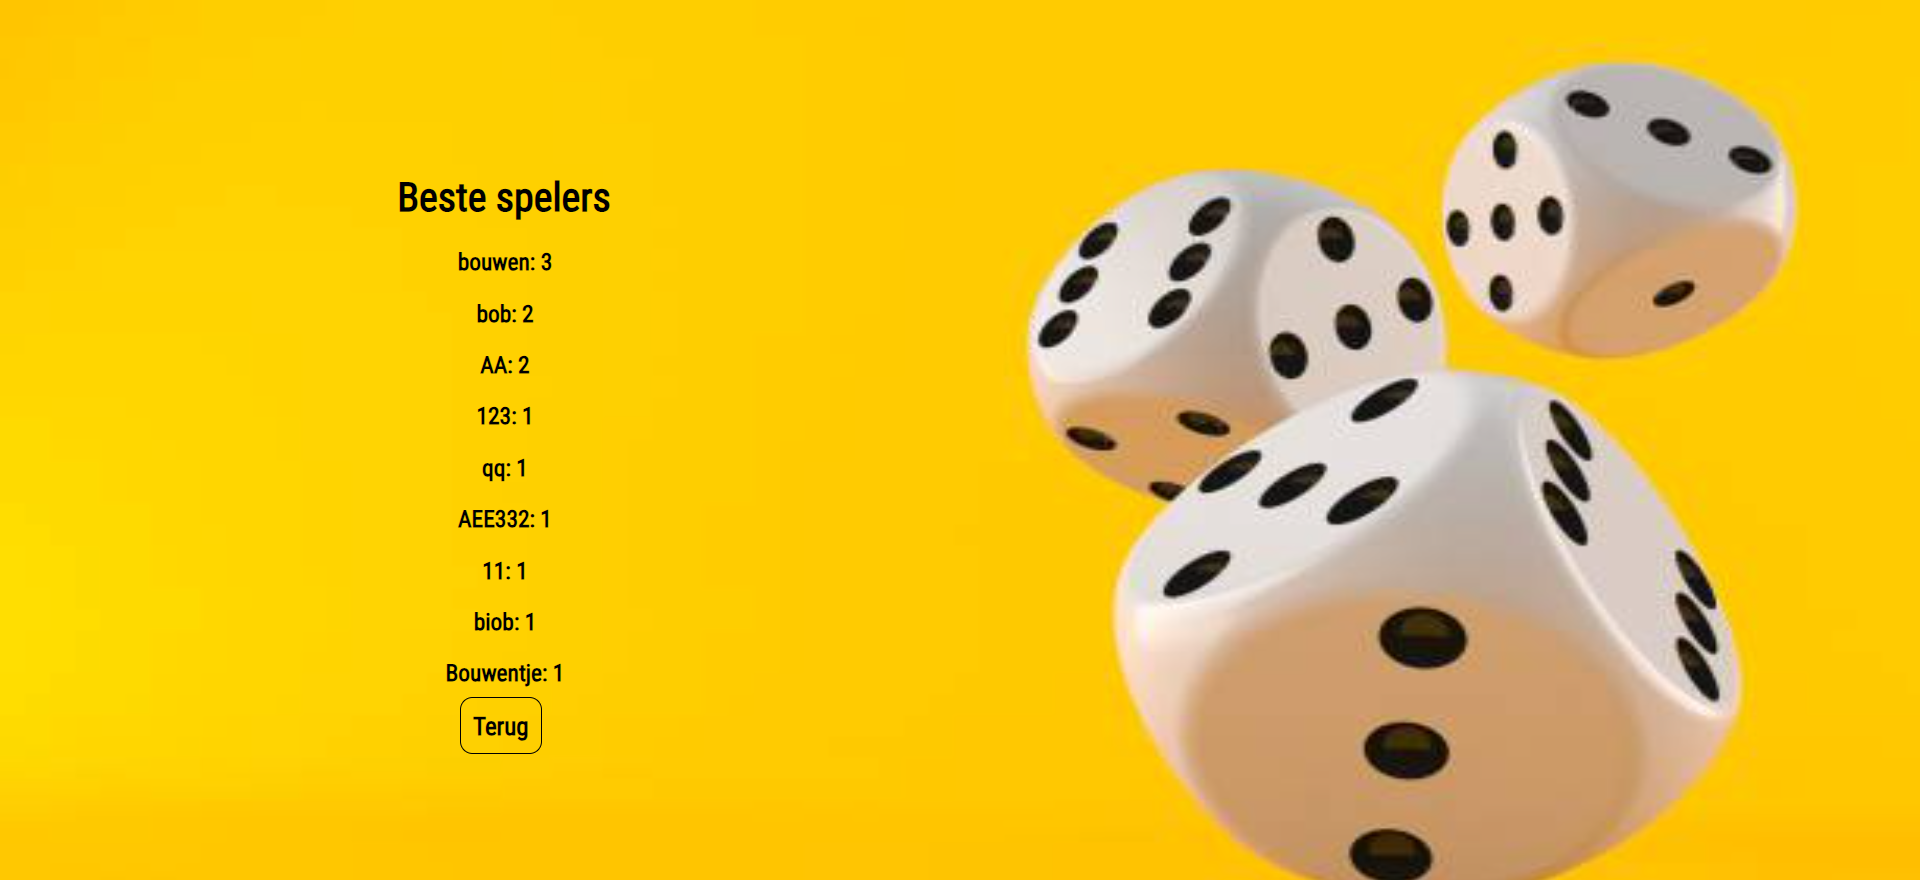
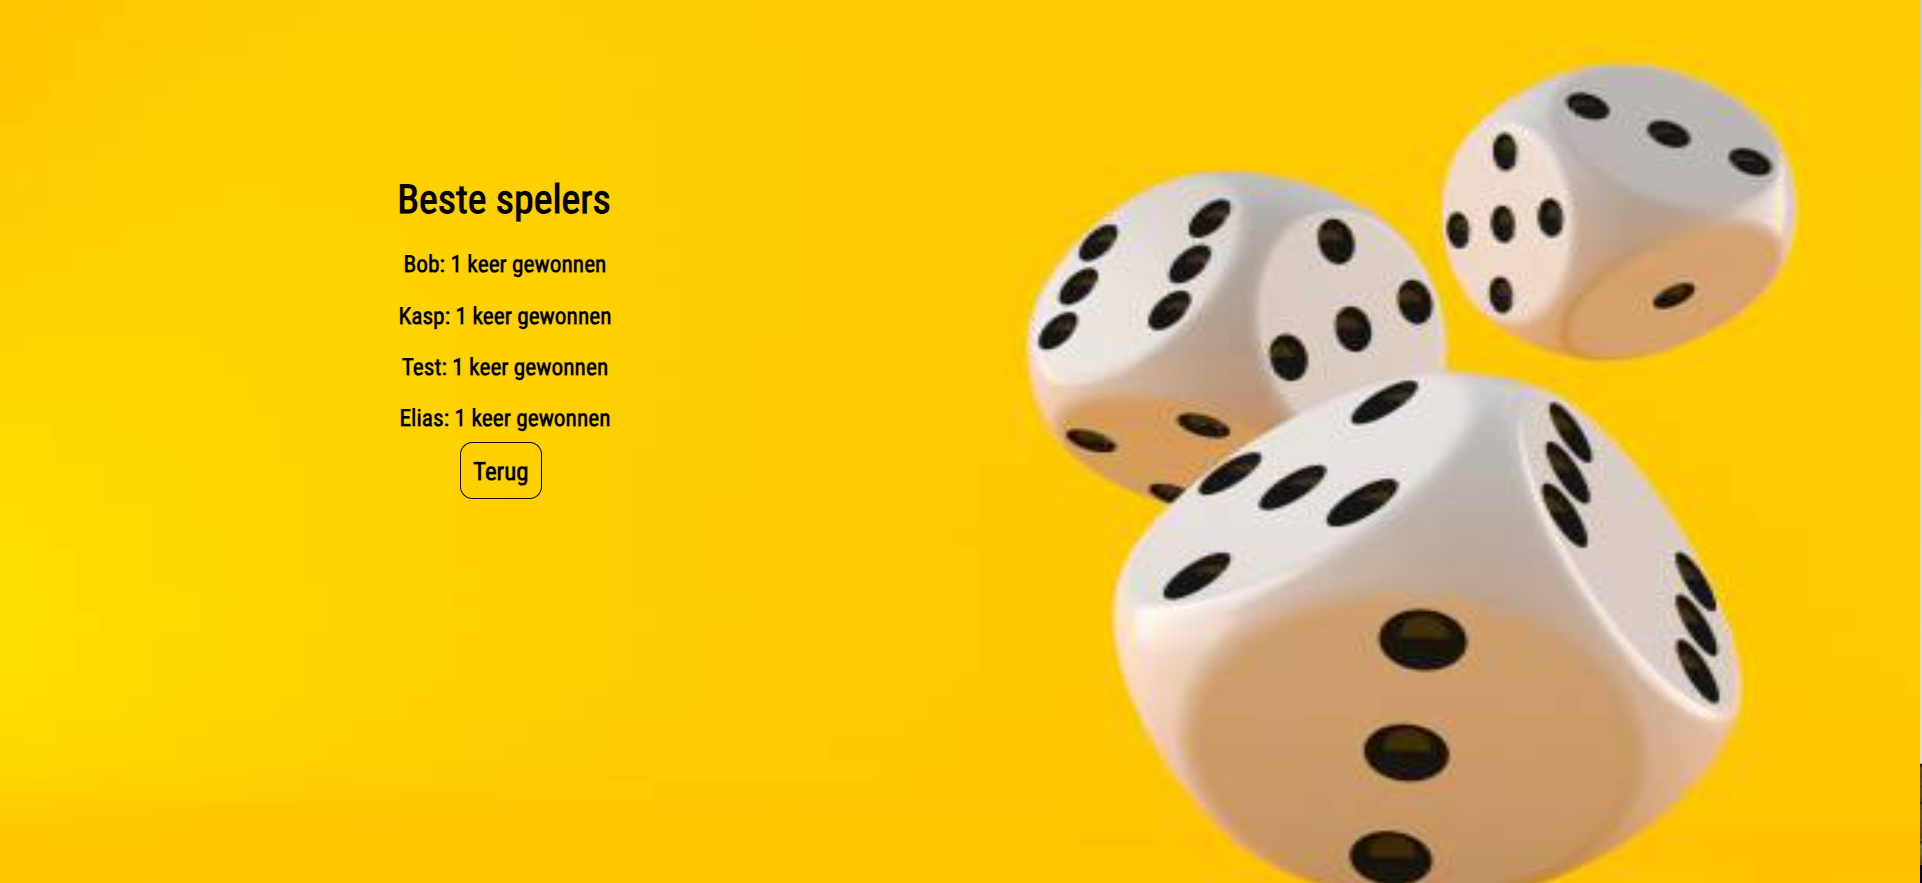
structured folders, added flask srv

diff --git a/remix/diceroll/app/routes/game.jsx b/remix/diceroll/app/routes/game.jsx
@@ -5,7 +5,7 @@ export function links() {
   return [{ rel: "stylesheet", href: styles }];
 }
 
-const url = "http://10.10.1.81:4000";
+const url = "http://192.168.20.150:4000";
 
 export async function loader() {
   const data = (await fetch(`${url}/getrandomnumbers`)).json();
@@ -17,7 +17,7 @@ export default function Game() {
   const randomNumber1 = data.rNum1;
   const randomNumber2 = data.rNum2;
 
-  fetch(`http://10.10.1.81:5000/leds/${randomNumber1}/${randomNumber2}`);
+  fetch(`http://192.168.20.150:5000/leds/${randomNumber1}/${randomNumber2}`);
 
   let winner = 0;
   if (randomNumber1 > randomNumber2) {

diff --git a/remix/diceroll/app/routes/highscores.jsx b/remix/diceroll/app/routes/highscores.jsx
@@ -6,7 +6,7 @@ export function links() {
   return [{ rel: "stylesheet", href: styles }];
 }
 
-const url = "http://10.10.1.81:4000";
+const url = "http://192.168.20.150:4000";
 
 export async function loader() {
   const topUsers = await fetch(`${url}/topusers`).then((res) =>
@@ -26,7 +26,7 @@ export default function HighScores() {
           return (
             <li key={user.userID}>
               <h3>
-                {user.userName}: {user.timesWon}
+                {user.userName}: {user.timesWon} keer gewonnen
               </h3>
             </li>
           );

diff --git a/remix/diceroll/app/routes/waiting.jsx b/remix/diceroll/app/routes/waiting.jsx
@@ -14,7 +14,9 @@ export default function Waiting() {
   return (
     <div className="waitpage">
       <button className={btn1Clicked ? "waiting clicked" : "waiting"} onClick={() => setBtn1Clicked(true)}>Speler 1</button>
+      {btn1Clicked && <span style={{fontSize: 20}}>✅</span>}
       <button className={btn2Clicked ? "waiting clicked" : "waiting"} onClick={() => setBtn2Clicked(true)}>Speler 2</button>
+      {btn2Clicked && <span style={{fontSize: 20}}>✅</span>}
       {btn1Clicked && btn2Clicked ? location.href = "/game" : null}
     </div>
   );

diff --git a/remix/diceroll/app/assets/css/global.css b/remix/diceroll/app/assets/css/global.css
@@ -72,6 +72,7 @@ button:hover,
 input[type="submit"]:hover {
   background-color: yellow !important;
   cursor: pointer !important;
+  transform: scale(1.15);
 }
 
 .game {

diff --git a/api/python/app.py b/api/python/app.py
@@ -1,0 +1,36 @@
+from flask import Flask
+from gpiozero import LED, Button
+from time import sleep
+
+app = Flask(__name__)
+
+
+@app.route('/')
+def hello_name():
+    return 'Hello!'
+
+
+@app.route("/leds/<amount>/<amount2>", methods=["GET"])
+def leds(amount, amount2):
+    try:
+        sleep(3)
+        led1 = LED(4)
+        led2 = LED(17)
+        for i in range(int(amount)):
+           led1.on()
+           sleep(0.4)
+           led1.off()
+           sleep(0.4)
+        sleep(2)
+        for i in range(int(amount2)):
+           led2.on()
+           sleep(0.4)
+           led2.off()
+           sleep(0.4)
+    except:
+        return ""
+    return ""
+
+
+if __name__ == '__main__':
+    app.run(host='0.0.0.0', port=5000)
